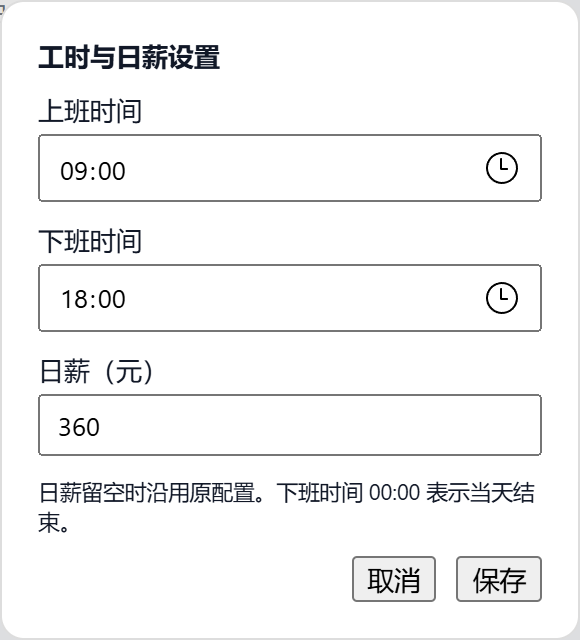
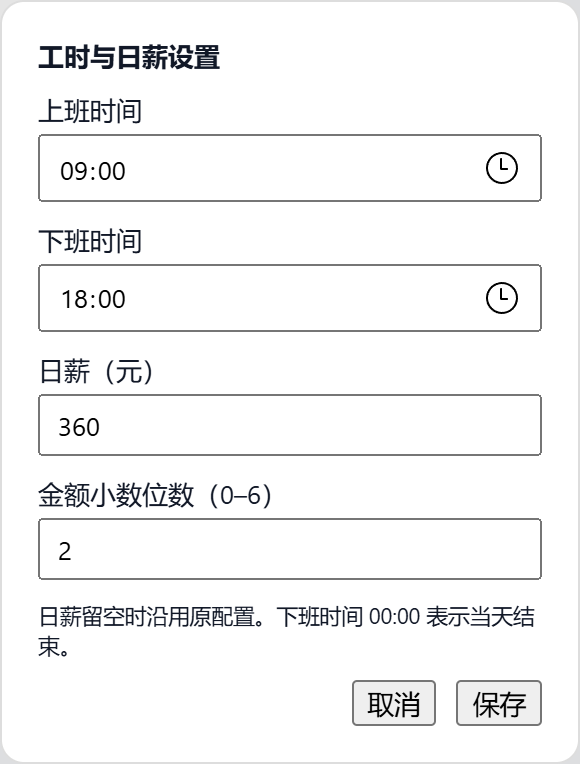
Allow configurable decimal places for sidebar earnings and daily pay

diff --git a/lib/client.js b/lib/client.js
@@ -18,6 +18,7 @@ window.__ModuleLoader__.load({
 			startMin: 9 * 60,
 			endMin: 17 * 60,
 			dailySalary: 9000 / 22,
+			decimalPlaces: 2,
 			workdays: [1, 2, 3, 4, 5],
 		};
 		const CONFIG_URL = "/api/offwork/config";
@@ -40,6 +41,8 @@ window.__ModuleLoader__.load({
 				endMin: end,
 				dailySalary: Number.isFinite(salary) && salary >= 0 ? salary : DEFAULTS.dailySalary,
 				customDailySalary: Number.isFinite(src.customDailySalary) ? src.customDailySalary : null,
+				decimalPlaces: Number.isInteger(src.decimalPlaces) && src.decimalPlaces >= 0 && src.decimalPlaces <= 6
+					? src.decimalPlaces : DEFAULTS.decimalPlaces,
 				workdays: days.length > 0 ? [...new Set(days)] : DEFAULTS.workdays,
 			};
 		}
@@ -206,7 +209,7 @@ window.__ModuleLoader__.load({
 		/** 一张统计卡：图标 + 小标签 + 大数字 + 右侧附注。 */
 		function StatCard({ tint, icon, label, labelColor, value, unit, aside, compact }) {
 			return jsxs("div", {
-				style: css.card,
+				style: unit ? { ...css.card, flexWrap: "wrap" } : css.card,
 				"data-dsh-plugin": "offwork",
 				children: [
 					jsx("span", {
@@ -214,7 +217,7 @@ window.__ModuleLoader__.load({
 						"aria-hidden": true,
 						children: icon,
 					}),
-					jsxs("div", { style: css.body, children: [
+					jsxs("div", { style: unit ? { ...css.body, flexBasis: "max-content" } : css.body, children: [
 						jsx("div", {
 							style: labelColor ? { ...css.label, color: labelColor } : css.label,
 							children: label,
@@ -291,7 +294,8 @@ window.__ModuleLoader__.load({
 					const res = await fetch(CONFIG_URL, {
 						method: "PUT",
 						headers: { "content-type": "application/json" },
-						body: JSON.stringify({ workStart, workEnd, dailySalary: amount === "" ? null : Number(amount) }),
+						body: JSON.stringify({ workStart, workEnd, dailySalary: amount === "" ? null : Number(amount),
+							decimalPlaces: Number(form.get("decimalPlaces")) }),
 					});
 					const data = await res.json();
 					if (!res.ok) throw Error(data.error || "保存失败。");
@@ -319,7 +323,9 @@ window.__ModuleLoader__.load({
 					field("上班时间", "workStart", { type: "time", required: true, defaultValue: clockTime(cfg.startMin) }),
 					field("下班时间", "workEnd", { type: "time", required: true, defaultValue: clockTime(cfg.endMin) }),
 					field("日薪（元）", "dailySalary", { type: "number", min: 0, step: "any",
-						placeholder: cfg.dailySalary.toFixed(2), defaultValue: cfg.customDailySalary ?? "" }),
+						placeholder: cfg.dailySalary.toFixed(cfg.decimalPlaces), defaultValue: cfg.customDailySalary ?? "" }),
+					field("金额小数位数（0–6）", "decimalPlaces", { type: "number", min: 0, max: 6,
+						step: 1, required: true, defaultValue: cfg.decimalPlaces }),
 					jsx("small", { children: "日薪留空时沿用原配置。下班时间 00:00 表示当天结束。" }),
 					error && jsx("div", { role: "alert", children: error }),
 					jsxs("div", { style: { display: "flex", justifyContent: "flex-end", gap: 10 }, children: [
@@ -351,7 +357,7 @@ window.__ModuleLoader__.load({
 					: "下班还有";
 			const countdownValue = !state.working ? "—" : overtime ? hms(state.overtimeSec) : state.countdown;
 			const earnedLabel = "今日已赚";
-			const earnedValue = state.earned.toFixed(2);
+			const earnedValue = state.earned.toFixed(cfg.decimalPlaces);
 
 			return jsxs("div", { style: css.stack, children: [
 				jsx("style", { children: `
@@ -387,9 +393,9 @@ window.__ModuleLoader__.load({
 					unit: "¥",
 					aside: compact
 						? null
-						: jsxs("div", { className: "offwork-daily", style: css.aside, children: [
+						: jsxs("div", { className: "offwork-daily", style: { ...css.aside, marginLeft: "auto" }, children: [
 							jsx("div", { style: css.asideTop, children: "日薪" }),
-							jsx("div", { style: css.asideValue, children: `¥${cfg.dailySalary.toFixed(2)}` }),
+							jsx("div", { style: css.asideValue, children: `¥${cfg.dailySalary.toFixed(cfg.decimalPlaces)}` }),
 						] }),
 					compact,
 				}),

diff --git a/lib/index.js b/lib/index.js
@@ -9,6 +9,7 @@ const DEFAULTS = {
 	workEnd: "17:00",
 	monthlySalary: 9000,
 	workdaysPerMonth: 22,
+	decimalPlaces: 2,
 	workdays: [1, 2, 3, 4, 5],
 };
 
@@ -39,12 +40,18 @@ function explicitDaily(value) {
 	return Number.isFinite(number) && number >= 0 ? number : null;
 }
 
+function validDecimalPlaces(value) {
+	return Number.isInteger(value) && value >= 0 && value <= 6;
+}
+
 export function normalize(...sources) {
 	const merged = { ...DEFAULTS };
+	let decimalPlaces = DEFAULTS.decimalPlaces;
 	let dailySalary = DEFAULTS.monthlySalary / DEFAULTS.workdaysPerMonth;
 	for (const source of sources) {
 		if (!source || typeof source !== "object") continue;
 		Object.assign(merged, source);
+		if (validDecimalPlaces(source.decimalPlaces)) decimalPlaces = source.decimalPlaces;
 		const daily = explicitDaily(source.dailySalary);
 		if (daily !== null) {
 			dailySalary = daily;
@@ -64,6 +71,7 @@ export function normalize(...sources) {
 		startMin,
 		endMin: endMin > startMin ? endMin : Math.min(startMin + 60, 1440),
 		dailySalary,
+		decimalPlaces,
 		workdays: days.length ? [...new Set(days)] : DEFAULTS.workdays,
 	};
 }
@@ -88,7 +96,12 @@ async function readSettings(req) {
 		!(toMinutes(workStart) < toMinutes(workEnd))) throw Error("下班时间须晚于上班时间。");
 	if (dailySalary !== null && (typeof dailySalary !== "number" || explicitDaily(dailySalary) === null))
 		throw Error("日薪须为非负金额。");
-	return { workStart, workEnd, dailySalary };
+	const settings = { workStart, workEnd, dailySalary };
+	if ("decimalPlaces" in data) {
+		if (!validDecimalPlaces(data.decimalPlaces)) throw Error("金额小数位数须为 0 到 6 的整数。");
+		settings.decimalPlaces = data.decimalPlaces;
+	}
+	return settings;
 }
 
 function saveSettings(settings) {

diff --git a/README.md b/README.md
@@ -13,7 +13,7 @@
 | 卡片 | 显示 | 细节 |
 |---|---|---|
 | 下班还有 | `01:10:25` 式倒计时，每秒刷新 | 右侧 12 根柱子表示今天的工作进度。超过设定的下班时间后显示加班时长，非工作日显示「今天不上班」 |
-| 今日已赚 | `409.09 ¥`，2 位小数 | 日薪 × 已上班时长 ÷ 工作日总时长，到下班点拿满。右侧标出当前日薪 |
+| 今日已赚 | `409.09 ¥`，默认 2 位小数 | 日薪 × 已上班时长 ÷ 工作日总时长，到下班点拿满。右侧标出当前日薪 |
 
 两张紧凑卡片位于侧边栏底部，侧边栏收起时随底栏一起隐藏。
 
@@ -31,7 +31,9 @@ dsh plugin --profile desktop add ./dsh-plugin-offwork-0.3.0.tgz
 
 点击倒计时卡右侧的 **设置**，填写上班时间、下班时间和日薪，点 **保存** 即时生效。工时按同一天计算，下班时间选 `00:00` 代表当天午夜。日薪可以填 `0`，也可以留空以沿用原配置（默认按月薪 ÷ 月工作日折算）。
 
-<img src="docs/preview/settings.png" width="290" alt="工时与日薪设置窗口，上班时间为 09:00，下班时间为 18:00，日薪为 360 元">
+在 **金额小数位数** 中输入 0 到 6 的整数可调整「今日已赚」和「日薪」的显示精度。选 0 显示整数，选 3 时 12.5 元显示为 12.500 元。收入始终按原始日薪计算。
+
+<img src="docs/preview/settings.png" width="290" alt="工时与日薪设置窗口，上班时间为 09:00，下班时间为 18:00，日薪为 360 元，金额显示 2 位小数">
 
 设置保存在 **`~/.dsh/offwork.json`**。也可以手动编辑此文件，卡片会在 60 秒内刷新。示例：
 
@@ -40,6 +42,7 @@ dsh plugin --profile desktop add ./dsh-plugin-offwork-0.3.0.tgz
   "workStart": "09:00",
   "workEnd": "17:00",
   "dailySalary": 350,
+  "decimalPlaces": 2,
   "workdays": [1, 2, 3, 4, 5]
 }
 ```
